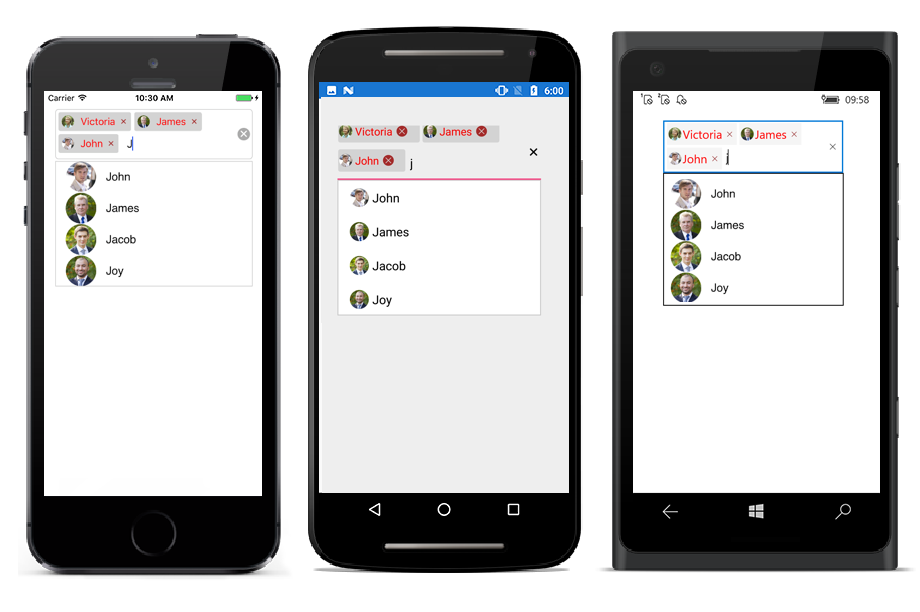
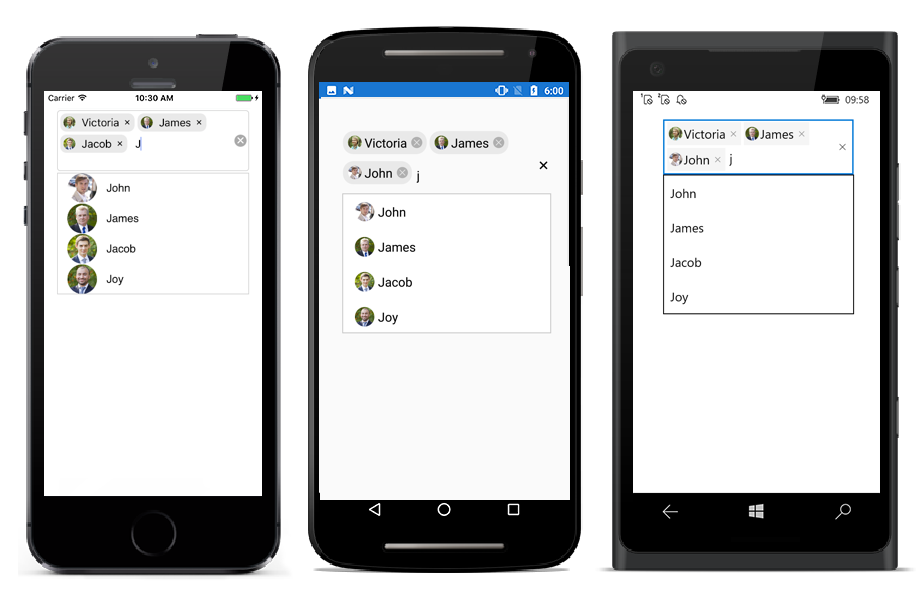
Changed the image for Token Representation

diff --git a/Xamarin/SfAutoComplete/Multiple-selection.md b/Xamarin/SfAutoComplete/Multiple-selection.md
@@ -102,14 +102,14 @@ set { employeeCollection = value; }
 public EmployeeViewModel()
 {
 employeeCollection = new ObservableCollection<Employee>();
-employeeCollection.Add(new Employee() { Image = "a0.png", Name = "John" });
-employeeCollection.Add(new Employee() { Image = "a1.png", Name = "James" });
-employeeCollection.Add(new Employee() { Image = "a2.png", Name = "Jacob" });
-employeeCollection.Add(new Employee() { Image = "a3.png", Name = "Joy" });
-employeeCollection.Add(new Employee() { Image = "a4.png", Name = "Justin" });
-employeeCollection.Add(new Employee() { Image = "a5.png", Name = "Jerome" });
-employeeCollection.Add(new Employee() { Image = "b0.png", Name = "Jessica" });
-employeeCollection.Add(new Employee() { Image = "b1.png", Name = "Victoria" });
+employeeCollection.Add(new Employee() { Image = "John.png", Name = "John" });
+employeeCollection.Add(new Employee() { Image = "James.png", Name = "James" });
+employeeCollection.Add(new Employee() { Image = "Jacob.png", Name = "Jacob" });
+employeeCollection.Add(new Employee() { Image = "Joy.png", Name = "Joy" });
+employeeCollection.Add(new Employee() { Image = "Justin.png", Name = "Justin" });
+employeeCollection.Add(new Employee() { Image = "Jerome.png", Name = "Jerome" });
+employeeCollection.Add(new Employee() { Image = "Jessica.png", Name = "Jessica" });
+employeeCollection.Add(new Employee() { Image = "Victoria.png", Name = "Victoria" });
 
 }
 
@@ -197,13 +197,13 @@ Customization can be done for Token. There are various ways to customize the tok
 
 TokenSettings token = new TokenSettings();
 token.FontSize = 16;
-token.BackgroundColor = Color.FromHex("#d3d3d3");
+token.BackgroundColor = Color.FromHex("#f5ffbe");
 token.TextColor = Color.Red;
 token.SelectedBackgroundColor = Color.FromHex("#ffffe0");
 token.DeleteButtonColor = Color.Brown;
 token.FontFamily= "Times New Roman";
 token.IsCloseButtonVisible = true;
-token.CornerRadius = 3;
+token.CornerRadius = 15;
 autoComplete.TokenSettings = token;
  
 {% endhighlight %}
